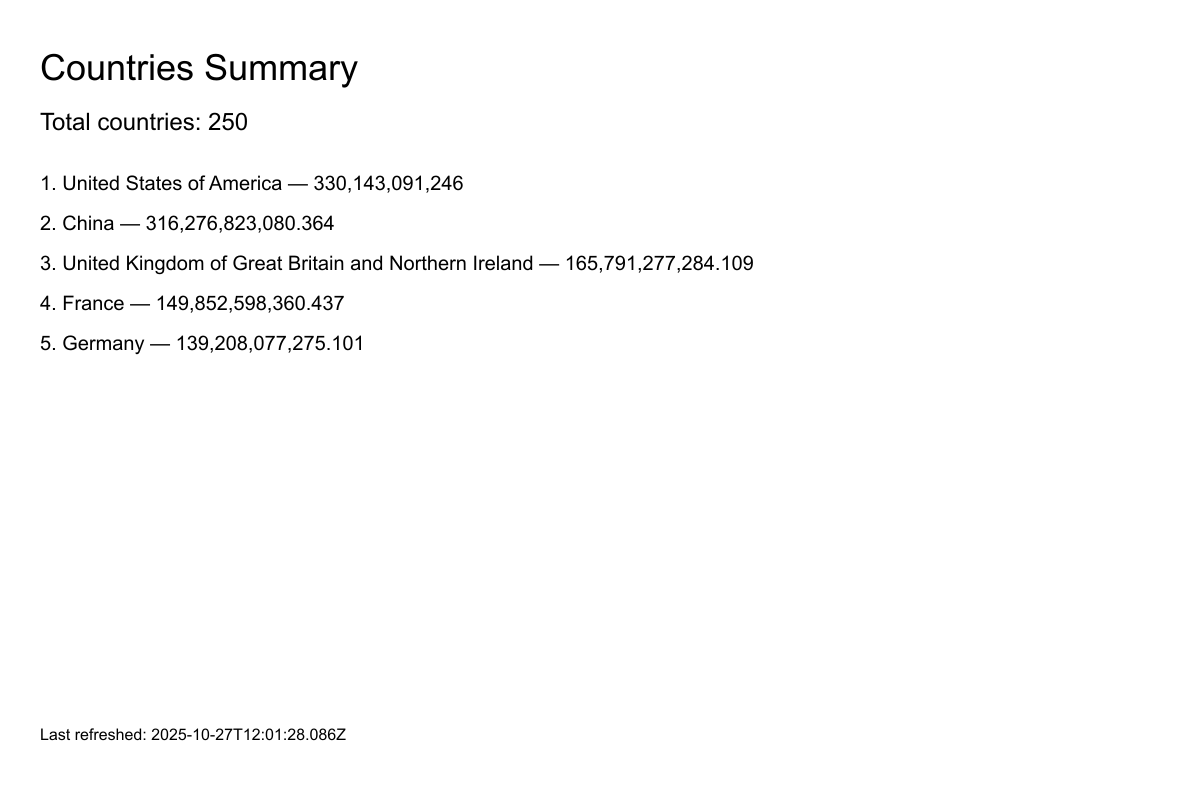
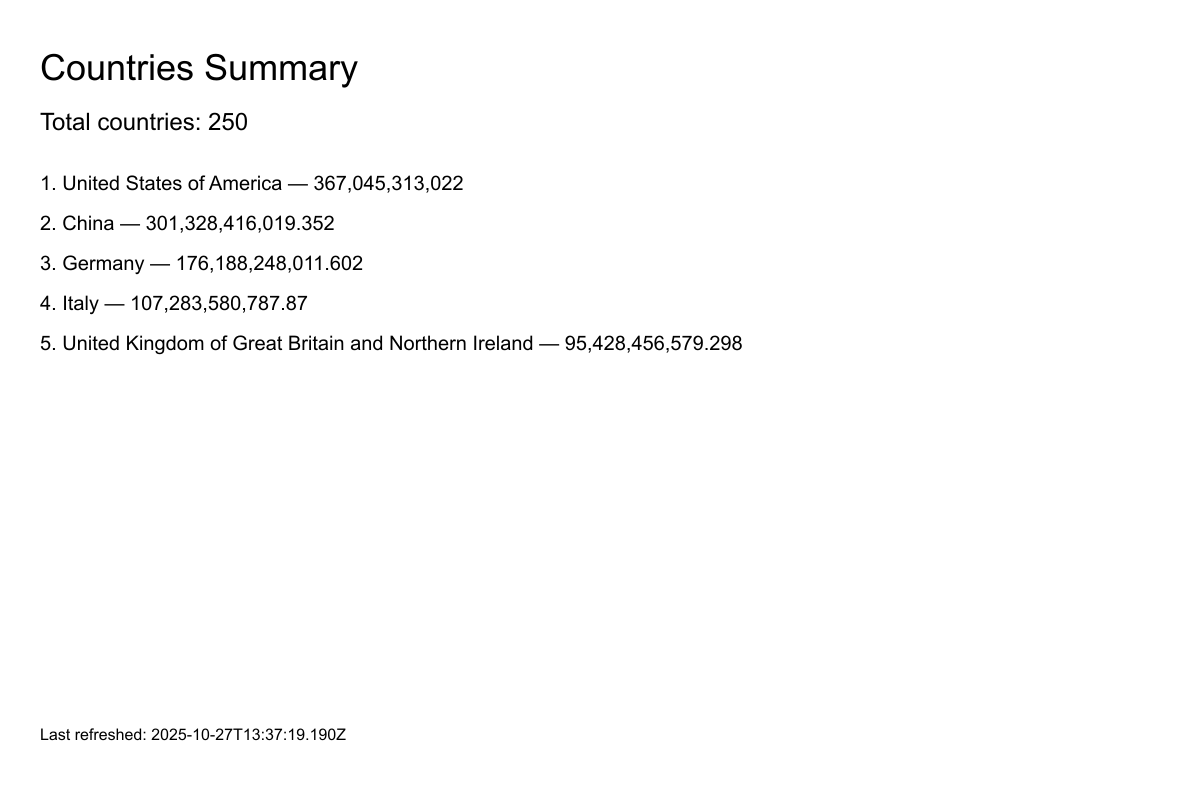
modified the trasaction timeout in prisma and contries

diff --git a/src/countries/countries.service.ts b/src/countries/countries.service.ts
@@ -13,6 +13,9 @@ const IMAGE_CACHE_PATH = process.env.IMAGE_CACHE_PATH || './cache/summary.png';
 export class CountriesService {
   private readonly logger = new Logger(CountriesService.name);
 
+  // chunk size controls concurrency / DB load; tune as needed (50 is a good default for ~200 records)
+  private readonly CHUNK_SIZE = 50;
+
   constructor(
     private prisma: PrismaService,
     private http: HttpClientService,
@@ -100,36 +103,29 @@ export class CountriesService {
       };
     });
 
-    // --- Persist to DB ---
+    // --- Persist to DB in chunks (avoid a single long transaction) ---
     try {
-      await this.prisma.$transaction(async (tx) => {
-        for (const p of prepared) {
-          const existing = p.name ? await tx.country.findFirst({ where: { name: { equals: p.name } } }) : null;
+      // chunk helper
+      const chunks: any[][] = [];
+      for (let i = 0; i < prepared.length; i += this.CHUNK_SIZE) {
+        chunks.push(prepared.slice(i, i + this.CHUNK_SIZE));
+      }
 
-          if (existing) {
-            await tx.country.update({
-              where: { id: existing.id },
-              data: {
-                capital: p.capital,
-                region: p.region,
-                population: p.population,
-                currency_code: p.currency_code,
-                exchange_rate: p.exchange_rate,
-                estimated_gdp: p.estimated_gdp,
-                flag_url: p.flag_url,
-                last_refreshed_at: new Date(),
-              },
-            });
-          } else {
-            await tx.country.create({ data: p });
-          }
-        }
+      for (const [index, chunk] of chunks.entries()) {
+        this.logger.log(`Processing chunk ${index + 1}/${chunks.length} (${chunk.length} items)`);
 
-        await tx.meta.upsert({
-          where: { id: 1 },
-          create: { id: 1, last_refreshed_at: new Date(), total_countries: prepared.length },
-          update: { last_refreshed_at: new Date(), total_countries: prepared.length },
-        });
+        // prepare concurrent operations for this chunk
+        const ops = chunk.map((p) => this.upsertCountrySafe(p));
+
+        // run them in parallel but limited to chunk size
+        await Promise.all(ops);
+      }
+
+      // Update meta (single upsert)
+      await this.prisma.meta.upsert({
+        where: { id: 1 },
+        create: { id: 1, last_refreshed_at: new Date(), total_countries: prepared.length },
+        update: { last_refreshed_at: new Date(), total_countries: prepared.length },
       });
     } catch (e) {
       this.logger.error('DB transaction failed', e);
@@ -150,6 +146,43 @@ export class CountriesService {
     }
 
     return { total: prepared.length, last_refreshed_at: new Date().toISOString() };
+  }
+
+  /**
+   * Helper: safely update or create a country record.
+   * Uses updateMany -> create fallback to avoid upsert assumptions about unique constraints.
+   */
+  private async upsertCountrySafe(p: any) {
+    try {
+      if (!p?.name) {
+        // nothing to match on; attempt create
+        await this.prisma.country.create({ data: p });
+        return;
+      }
+
+      // updateMany returns a count; if no rows were updated we create
+      const updateResult = await this.prisma.country.updateMany({
+        where: { name: { equals: p.name } },
+        data: {
+          capital: p.capital,
+          region: p.region,
+          population: p.population,
+          currency_code: p.currency_code,
+          exchange_rate: p.exchange_rate,
+          estimated_gdp: p.estimated_gdp,
+          flag_url: p.flag_url,
+          last_refreshed_at: new Date(),
+        },
+      });
+
+      if (updateResult.count === 0) {
+        // no existing record matched, create a new one
+        await this.prisma.country.create({ data: p });
+      }
+    } catch (err) {
+      // log but don't throw — allow other records to proceed
+      this.logger.error(`Failed to upsert country ${p?.name}`, err);
+    }
   }
 
   async findAll(query: any) {
@@ -173,15 +206,14 @@ export class CountriesService {
     }
   }
 
-async findOneByName(name: string) {
-  if (!name) return null;
-  const country = await this.prisma.country.findFirst({
-    where: { name: { equals: name } },
-  });
-  if (!country) return null;
-  return serializeBigInt(country);
-}
-
+  async findOneByName(name: string) {
+    if (!name) return null;
+    const country = await this.prisma.country.findFirst({
+      where: { name: { equals: name } },
+    });
+    if (!country) return null;
+    return serializeBigInt(country);
+  }
 
   async deleteByName(name: string) {
     const country = await this.findOneByName(name);

diff --git a/src/prisma/prisma.service.ts b/src/prisma/prisma.service.ts
@@ -3,11 +3,24 @@ import { PrismaClient } from '@prisma/client';
 
 @Injectable()
 export class PrismaService extends PrismaClient implements OnModuleInit, OnModuleDestroy {
+  constructor() {
+    super({
+      //  Add transaction timeout and isolation settings
+      transactionOptions: {
+        maxWait: 10000, // wait up to 10 seconds to acquire a transaction
+        timeout: 30000, // transaction expires after 30 seconds
+        isolationLevel: 'ReadCommitted',
+      },
+    });
+  }
+
   async onModuleInit() {
     await this.$connect();
+    console.log(' Prisma connected successfully');
   }
 
   async onModuleDestroy() {
     await this.$disconnect();
+    console.log(' Prisma disconnected');
   }
 }
